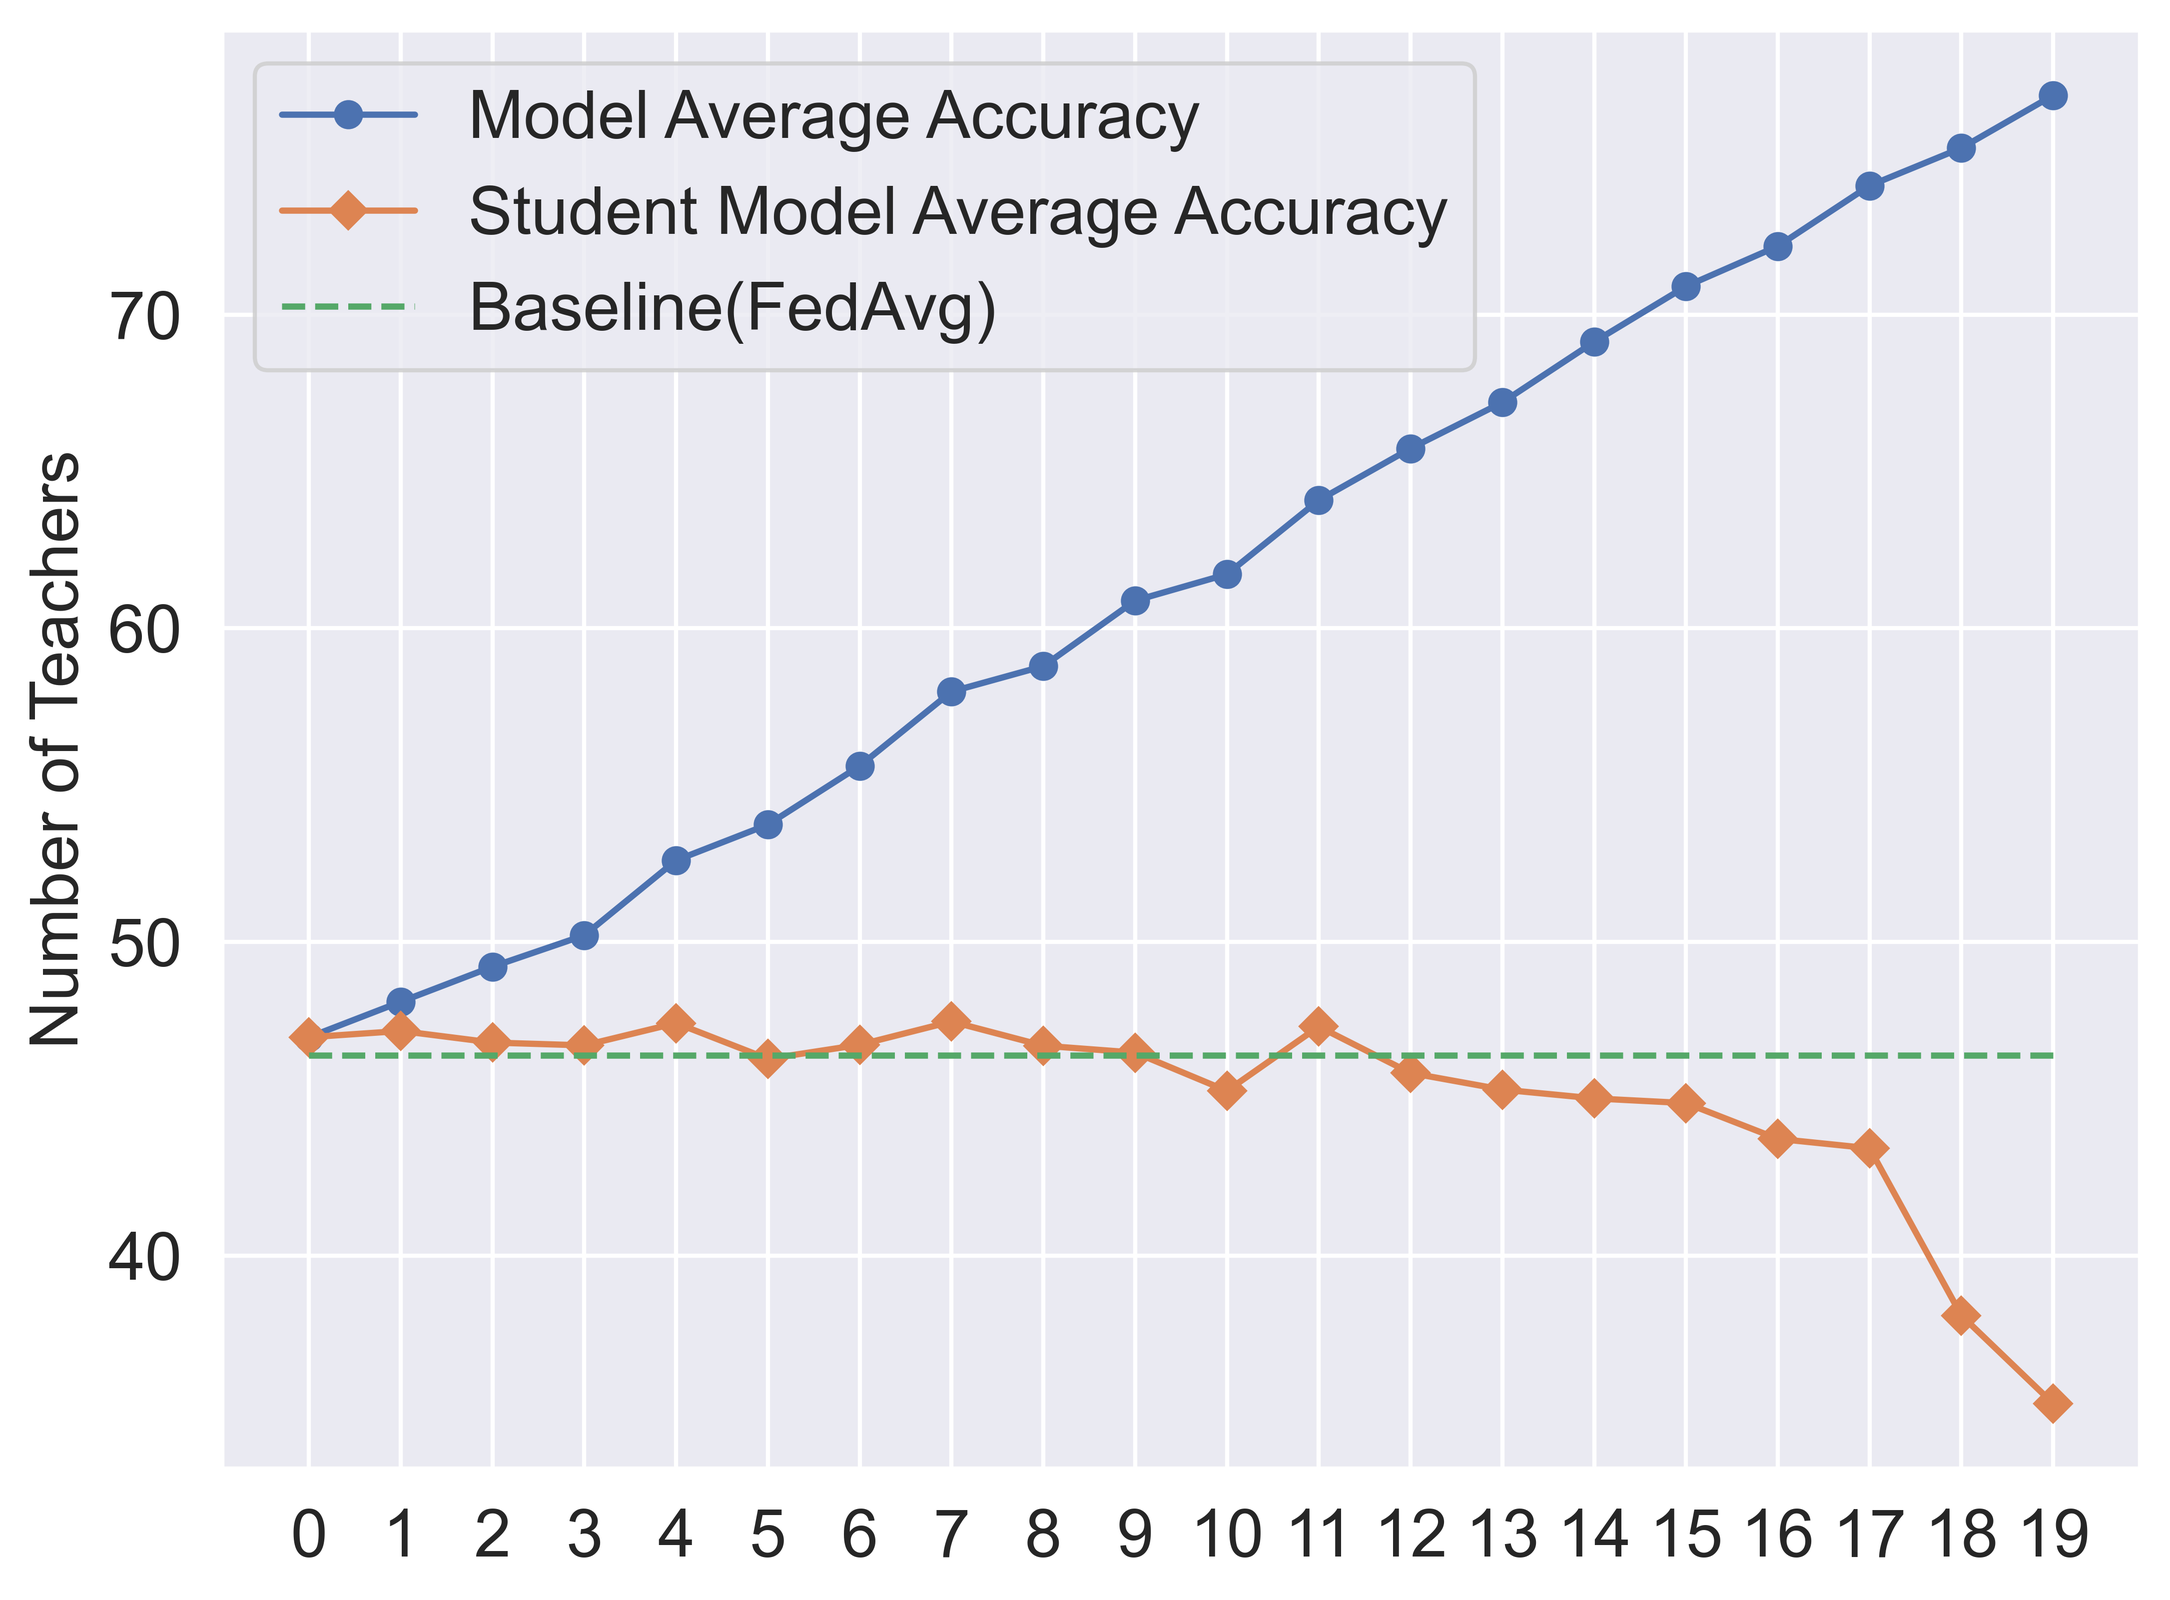
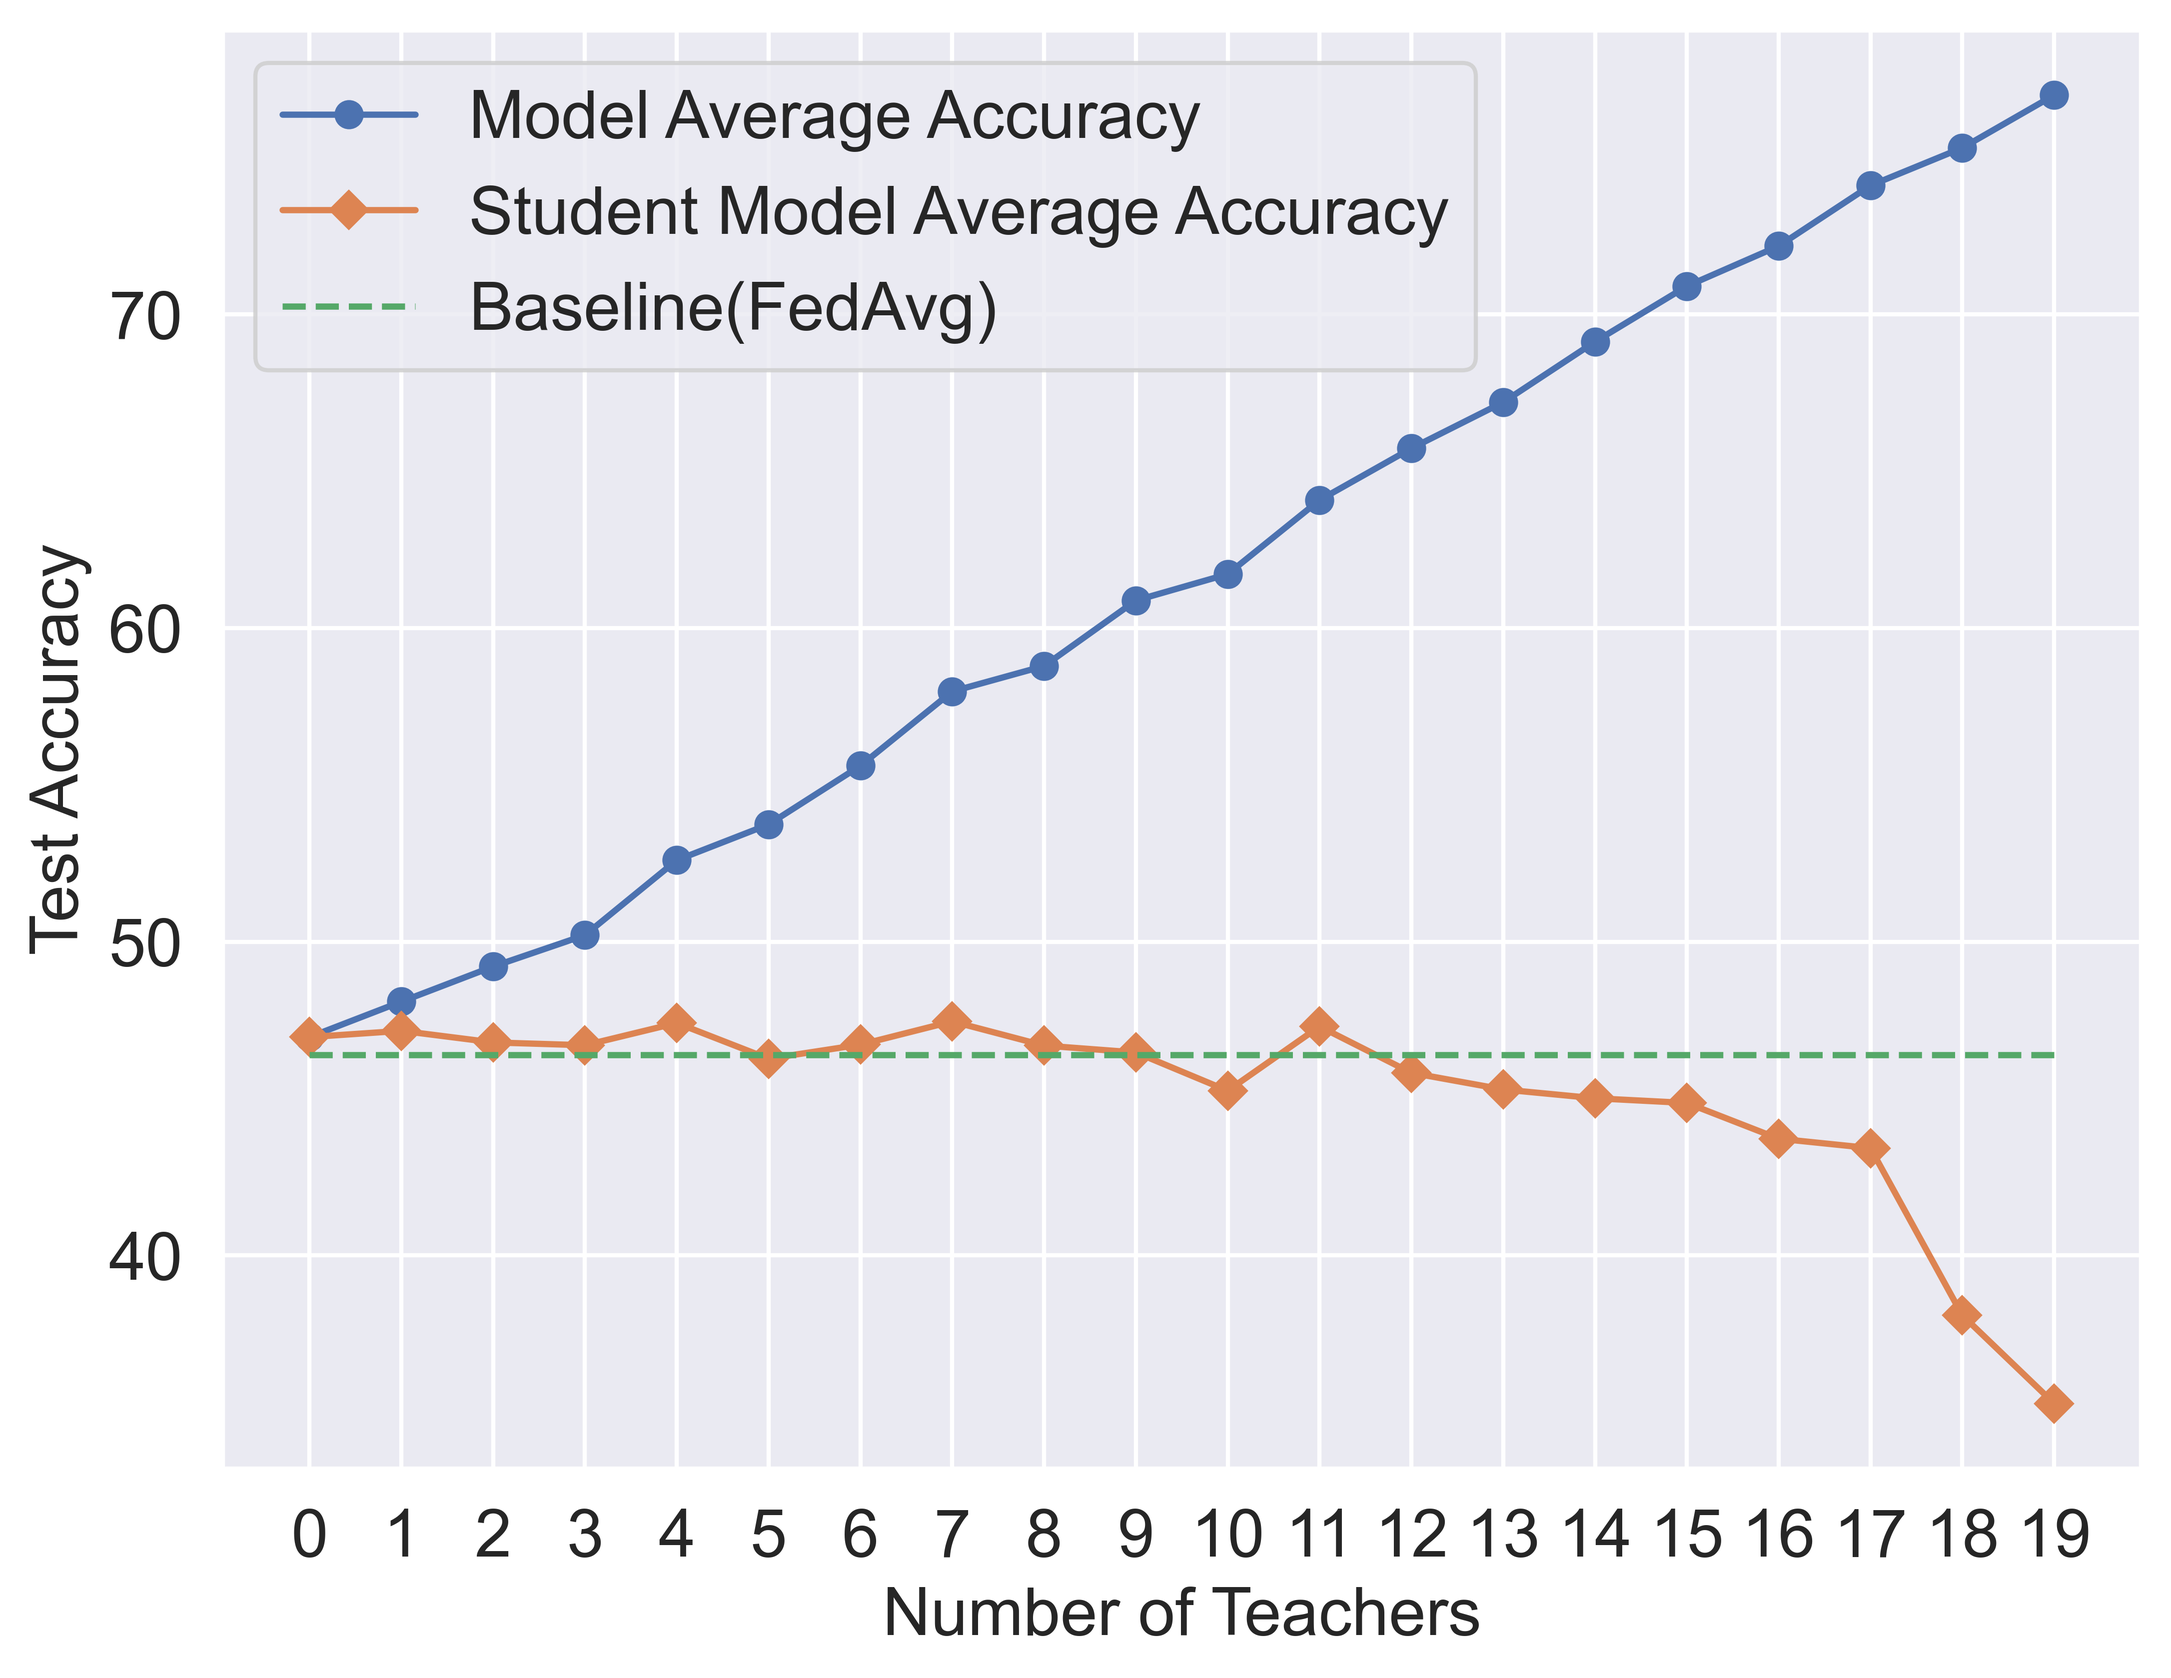
fix

diff --git a/plot3.py b/plot3.py
@@ -5,109 +5,109 @@ sns.set_theme()
 
 x = list(range(0, 20))
 
-# a_stu = [
-#     44.55,
-#     44.86,
-#     44.52,
-#     43.54,
-#     41.53,
-#     39.83,
-#     40.02,
-#     40.96,
-#     42.43,
-#     42.44,
-#     41.18,
-#     39.18,
-#     36.65,
-#     32.62,
-#     32.83,
-#     35.87,
-#     36.75,
-#     32.40,
-#     22.59,
-#     12.95,
-# ]
-# a = [
-#     44.55,
-#     46.21,
-#     46.63,
-#     48.03,
-#     47.94,
-#     48.29,
-#     49.93,
-#     51.41,
-#     54.79,
-#     55.75,
-#     57.96,
-#     58.56,
-#     59.99,
-#     61.33,
-#     63.86,
-#     67.43,
-#     69.12,
-#     71.00,
-#     71.42,
-#     73.89,
-# ]
-
-a_stu_beta_2 = [
-    46.96,
-    47.16,
-    46.79,
-    46.7,
-    47.41,
-    46.27,
-    46.72,
-    47.46,
-    46.69,
-    46.47,
-    45.25,
-    47.30,
-    45.82,
-    45.29,
-    45.01,
+a_stu = [
+    44.55,
     44.86,
-    43.72,
-    43.42,
-    38.09,
-    35.28,
+    44.52,
+    43.54,
+    41.53,
+    39.83,
+    40.02,
+    40.96,
+    42.43,
+    42.44,
+    41.18,
+    39.18,
+    36.65,
+    32.62,
+    32.83,
+    35.87,
+    36.75,
+    32.40,
+    22.59,
+    12.95,
 ]
-a_beta_2 = [
-    46.96,
-    48.09,
-    49.21,
-    50.21,
-    52.6,
-    53.74,
-    55.61,
-    57.98,
-    58.79,
-    60.88,
-    61.72,
-    64.08,
-    65.73,
-    67.20,
-    69.13,
-    70.90,
-    72.18,
-    74.11,
-    75.31,
-    76.99,
+a = [
+    44.55,
+    46.21,
+    46.63,
+    48.03,
+    47.94,
+    48.29,
+    49.93,
+    51.41,
+    54.79,
+    55.75,
+    57.96,
+    58.56,
+    59.99,
+    61.33,
+    63.86,
+    67.43,
+    69.12,
+    71.00,
+    71.42,
+    73.89,
 ]
-baseline = [46.39] * 20
-# plt.plot(x, a, marker="o", label="Model Average Accuracy")
-plt.plot(x, a_beta_2, marker="o", label="Model Average Accuracy")
-# plt.plot(x, a_stu, marker="D", label="Student Model Average Accuracy")
 
-plt.plot(x, a_stu_beta_2, marker="D", label="Student Model Average Accuracy")
+# a_stu_beta_2 = [
+#     46.96,
+#     47.16,
+#     46.79,
+#     46.7,
+#     47.41,
+#     46.27,
+#     46.72,
+#     47.46,
+#     46.69,
+#     46.47,
+#     45.25,
+#     47.30,
+#     45.82,
+#     45.29,
+#     45.01,
+#     44.86,
+#     43.72,
+#     43.42,
+#     38.09,
+#     35.28,
+# ]
+# a_beta_2 = [
+#     46.96,
+#     48.09,
+#     49.21,
+#     50.21,
+#     52.6,
+#     53.74,
+#     55.61,
+#     57.98,
+#     58.79,
+#     60.88,
+#     61.72,
+#     64.08,
+#     65.73,
+#     67.20,
+#     69.13,
+#     70.90,
+#     72.18,
+#     74.11,
+#     75.31,
+#     76.99,
+# ]
+baseline = [42.26] * 20
+plt.plot(x, a, marker="o", label="Model Average Accuracy")
+# plt.plot(x, a_beta_2, marker="o", label="Model Average Accuracy")
+plt.plot(x, a_stu, marker="D", label="Student Model Average Accuracy")
+
+# plt.plot(x, a_stu_beta_2, marker="D", label="Student Model Average Accuracy")
 
 
 plt.plot(x, baseline, label="Baseline(FedAvg)", linestyle="--")
 plt.ylabel("Test Accuracy", fontsize=16)
-plt.ylabel("Number of Teachers", fontsize=16)
+plt.xlabel("Number of Teachers", fontsize=16)
 plt.xticks(x)
 plt.legend(fontsize=16)
 plt.tick_params(axis="x", labelsize=16)
 plt.tick_params(axis="y", labelsize=16)
 plt.subplots_adjust(left=0, right=1, top=1, bottom=0)
-plt.savefig("plot3.png", dpi=600, bbox_inches="tight")
+plt.savefig("acc_diff_percent_beta_0.5.png", dpi=600, bbox_inches="tight")

diff --git a/plot4.py b/plot4.py
@@ -27,25 +27,25 @@ a_teacher = [
     77.10,
 ]
 a_teacher_only = [
-    42.75,
-    48.75,
-    46.63,
-    48.03,
-    47.94,
-    48.29,
-    49.93,
-    51.41,
-    54.79,
-    55.75,
-    57.96,
-    58.56,
-    59.99,
-    61.33,
-    63.86,
-    67.43,
-    69.12,
-    71.00,
-    71.42,
+    71.18,
+    67.54,
+    74.57,
+    74.32,
+    73.83,
+    74.08,
+    72.76,
+    73.82,
+    72.94,
+    75.03,
+    75.00,
+    76.09,
+    77.46,
+    77.51,
+    78.02,
+    77.45,
+    78.44,
+    76.85,
+    77.10,
 ]
 
 # a_teacher_beta_2 = [
@@ -102,7 +102,7 @@ plt.plot(
 )
 
 plt.ylabel("Test Accuracy", fontsize=16)
-plt.ylabel("Number of Teachers", fontsize=16)
+plt.xlabel("Number of Teachers", fontsize=16)
 plt.xticks(x)
 plt.legend(fontsize=16)
 plt.tick_params(axis="x", labelsize=16)

diff --git a/options.py b/options.py
@@ -112,6 +112,7 @@ def parse_args() -> argparse.Namespace:
     parser.add_argument(
         "--prob", action="store_true", default=False, help="Use probabilistic model"
     )
+    parser.add_argument("--stu_idx", default=0, type=int)
     parser.add_argument("--l2r_coeff", type=float, default=1e-2)
     parser.add_argument("--cmi_coeff", type=float, default=5e-4)
     parser.add_argument("--m1", type=int, default=3, help="Number of GMM components")

diff --git a/hm_main.py b/hm_main.py
@@ -168,7 +168,7 @@ if __name__ == "__main__":
             local_clients.append(client)
             # dists.append(client.label_distribution())
             bar.update(1)
-
+    local_clients = local_clients[args.stu_idx:]
     # draw_label_dist(dists, args.num_classes)
 
     server = Server(
